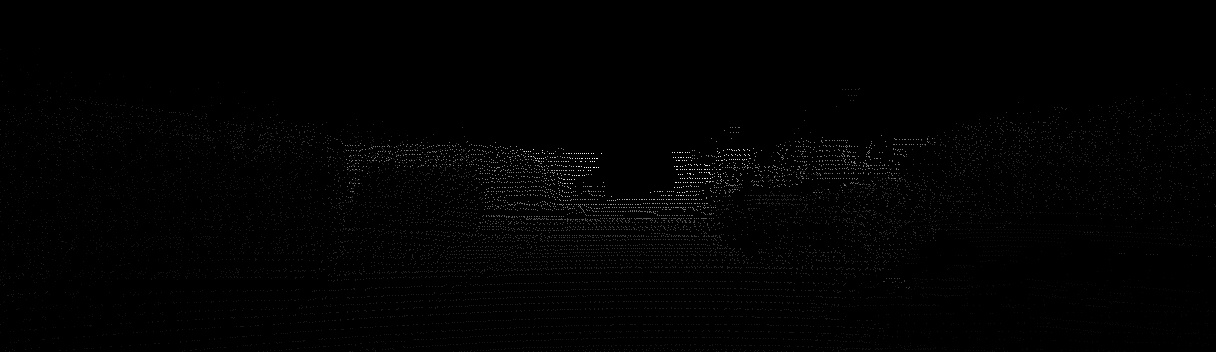
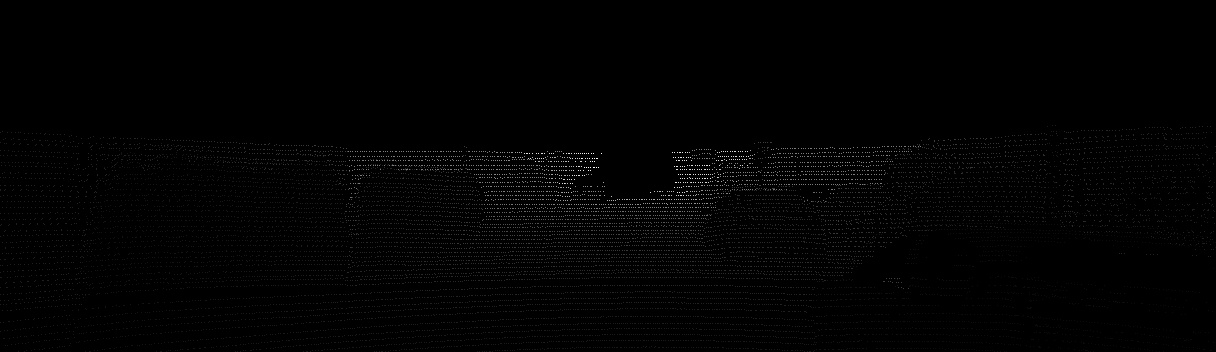
The rotation process works. Alleluja!

Changed region(s): [[0.1875, 0.375, 0.9375, 0.9062], [0.875, 0.5312, 0.9375, 0.5625]]

diff --git a/utils.py b/utils.py
@@ -11,18 +11,31 @@ from scipy.spatial.transform import Rotation as R
 
 def perturbation(h_init, p_factor):
     new_h_init = np.copy(h_init)
+    print("Rotazione matrice originale:")
+    print(new_h_init[:3, :3])
     # H_init[:2, 3] += p_factor
     # extract roll, pitch and yaw
     h_mat = R.from_matrix(new_h_init[:3, :3])
     quat_rot = h_mat.as_quat()
+    print("Quaternioni originali:")
     print(quat_rot)
-    r_euler = R.from_quat(quat_rot).as_matrix()
-    print(r_euler)
-    # rotation_array = np.array([0, 0, 0])
+
+    quat_rot_matrix = R.from_quat(quat_rot).as_matrix()
+    print("Matrice che genererebbe quei quaternioni:")
+    print(quat_rot_matrix)
+
+    rotation_array = R.from_euler('zyx', [0, 0, 45], degrees=True)
+    h_mat = R.from_matrix(new_h_init[:3, :3].dot(rotation_array.as_matrix()))
+    quat_rot = h_mat.as_quat()
+    print("Quaternioni della matrice che ruoterà H:")
+    print(quat_rot)
+
+    print("h_mat ruotata:")
+    print(h_mat.as_matrix())
     # r = R.from_rotvec(r.apply(rotation_array))
-    print(new_h_init)
-    new_h_init[:3,:3] = r_euler
-    print(new_h_init)
+    new_h_init[:3, :3] = h_mat.as_matrix()
+    print("Rotazione della nuova matrice H che la fz ritorna:")
+    print(new_h_init[:3, :3])
     return new_h_init
 
 
